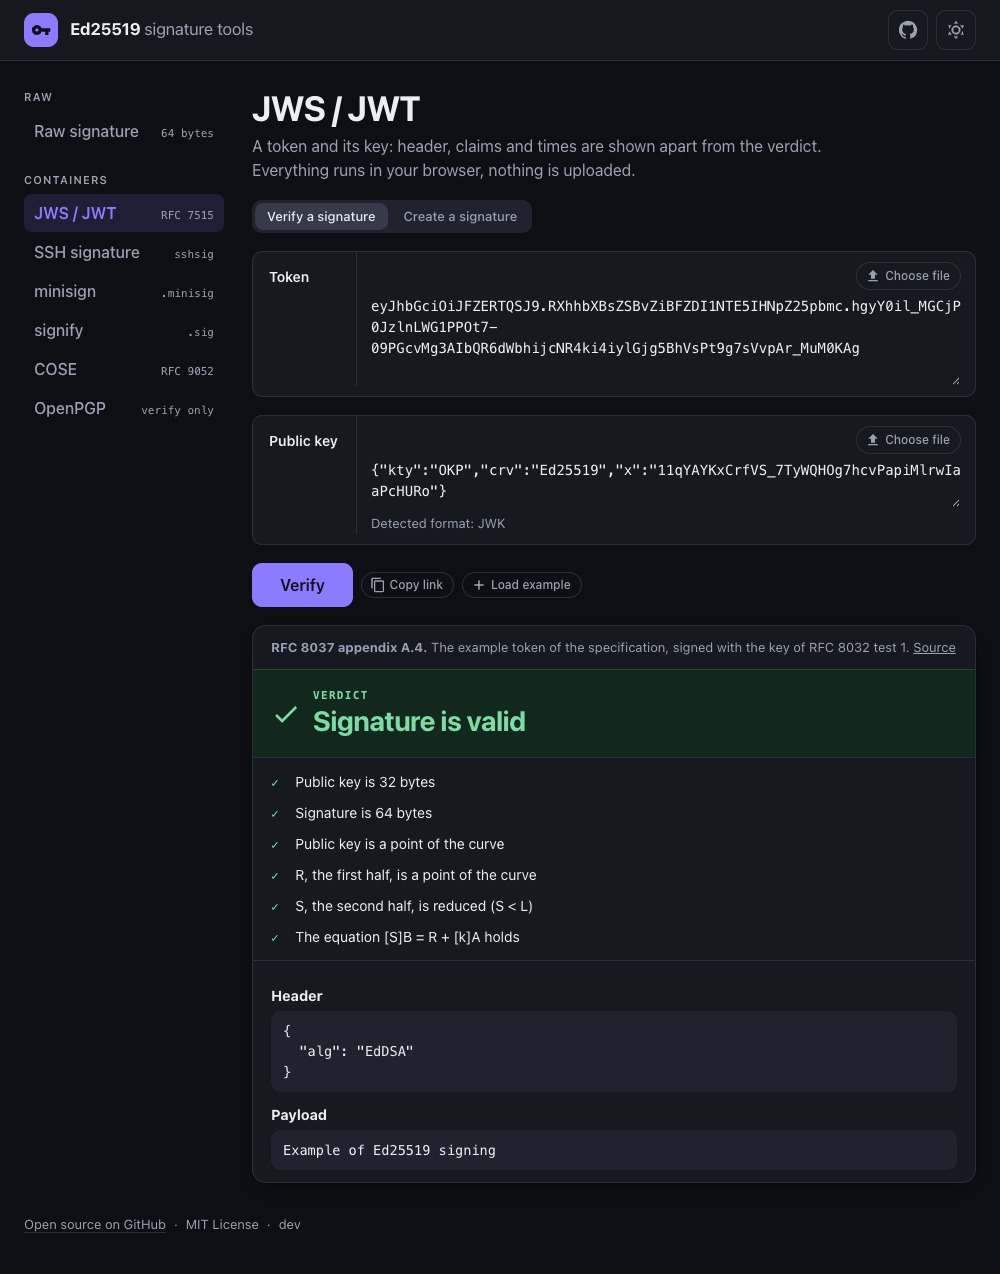
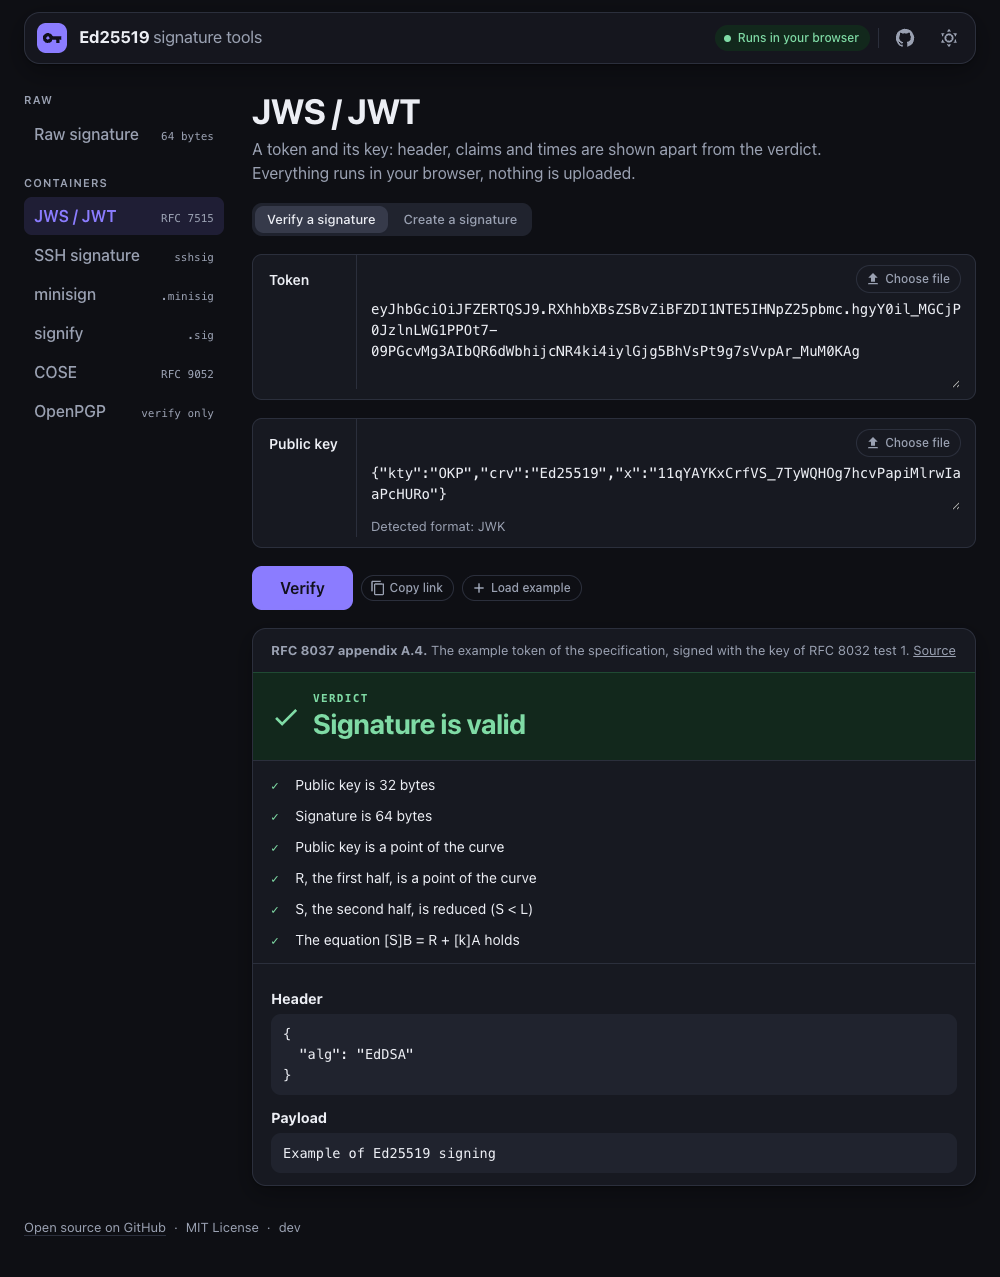
[feat]: a floating top bar with a "Runs in your browser" pill
The bar is a rounded, translucent card with a blur that floats over the page
and stays on top while it scrolls. The GitHub link and the theme toggle lose
their frame and sit after a divider. The screenshots show the new bar.

diff --git a/src/style.css b/src/style.css
@@ -66,23 +66,22 @@ button { font: inherit; color: inherit; cursor: pointer; }
 button:disabled { cursor: not-allowed; opacity: 0.5; }
 :focus-visible { outline: 2px solid var(--primary); outline-offset: 2px; }
 
-/* top bar */
-.topbar {
-  position: sticky;
-  top: 0;
-  z-index: 10;
-  background: color-mix(in srgb, var(--surface) 85%, transparent);
-  backdrop-filter: blur(10px);
-  border-bottom: 1px solid var(--border);
-}
+/* top bar: a rounded translucent bar that floats over the page and stays on top while it scrolls */
+.topbar { position: sticky; top: 0; z-index: 10; padding: 12px 24px 0; pointer-events: none; }
 .topbar-inner {
-  max-width: var(--page-width);
+  max-width: calc(var(--page-width) - 48px);
   margin: 0 auto;
-  padding: 0 24px;
-  height: 60px;
+  padding: 7px 8px 7px 12px;
   display: flex;
   align-items: center;
   justify-content: space-between;
+  gap: 12px;
+  pointer-events: auto;
+  background: color-mix(in srgb, var(--surface) 72%, transparent);
+  backdrop-filter: blur(14px);
+  border: 1px solid var(--border);
+  border-radius: 16px;
+  box-shadow: var(--shadow);
 }
 .brand { display: flex; align-items: center; gap: 12px; }
 .brand h1 { margin: 0; font-size: 1.05rem; font-weight: 700; letter-spacing: -0.01em; }
@@ -90,9 +89,9 @@ button:disabled { cursor: not-allowed; opacity: 0.5; }
 .logo {
   display: grid;
   place-items: center;
-  width: 34px;
-  height: 34px;
-  border-radius: 10px;
+  width: 30px;
+  height: 30px;
+  border-radius: 9px;
   background: var(--primary);
   color: var(--on-primary);
 }
@@ -100,17 +99,20 @@ button:disabled { cursor: not-allowed; opacity: 0.5; }
 a.icon, button.icon {
   display: grid;
   place-items: center;
-  width: 40px;
-  height: 40px;
-  border: 1px solid var(--border);
+  width: 36px;
+  height: 36px;
+  border: 0;
   border-radius: 10px;
-  background: var(--surface);
+  background: transparent;
   color: var(--muted);
   transition: color 0.15s, background 0.15s;
 }
 a.icon:hover, button.icon:hover { color: var(--text); background: var(--surface-2); }
 
-.topbar-actions { display: flex; gap: 8px; }
+.topbar-actions { display: flex; align-items: center; gap: 8px; }
+.local { display: inline-flex; align-items: center; gap: 7px; padding: 4px 11px 4px 9px; border-radius: 999px; background: var(--success-bg); color: var(--success-fg); font-size: 0.75rem; font-weight: 500; }
+.local::before { content: ''; width: 7px; height: 7px; border-radius: 50%; background: currentColor; }
+.divider { width: 1px; height: 20px; background: var(--border); }
 
 /* layout: the rail of formats, then the view that is open */
 .app {
@@ -125,7 +127,7 @@ a.icon:hover, button.icon:hover { color: var(--text); background: var(--surface-
 .bench-head h2 { margin: 0; font-size: clamp(1.6rem, 3.5vw, 2.2rem); line-height: 1.1; font-weight: 700; letter-spacing: -0.03em; text-wrap: balance; }
 .lead { margin: 6px 0 0; color: var(--muted); max-width: 60ch; }
 
-.rail { display: flex; flex-direction: column; gap: 22px; min-width: 0; align-self: start; position: sticky; top: 84px; }
+.rail { display: flex; flex-direction: column; gap: 22px; min-width: 0; align-self: start; position: sticky; top: 88px; }
 .rail-group h2 { margin: 0 0 6px; font-size: 0.6875rem; letter-spacing: 0.1em; text-transform: uppercase; color: var(--muted); font-weight: 600; }
 .rail [role='tablist'] { display: flex; flex-direction: column; gap: 1px; }
 .rail [role='tab'] {
@@ -326,6 +328,7 @@ button.primary:active { transform: translateY(1px); }
 }
 
 @media (max-width: 760px) {
+  .local, .divider { display: none; }
   .app { grid-template-columns: minmax(0, 1fr); gap: 16px; }
   .rail { position: static; flex-direction: row; gap: 4px; overflow-x: auto; }
   .rail-group h2, .rail [role='tab'] small { display: none; }
@@ -337,7 +340,7 @@ button.primary:active { transform: translateY(1px); }
   .field > :not(.field-head) { grid-column: 1; }
 }
 @media (max-width: 520px) {
-  .topbar-inner, .app, .footer { padding-left: 16px; padding-right: 16px; }
+  .topbar, .app, .footer { padding-left: 16px; padding-right: 16px; }
   .brand h1 span { display: none; }
 }
 

diff --git a/src/App.tsx b/src/App.tsx
@@ -138,6 +138,8 @@ export default function App() {
                         </h1>
                     </div>
                     <div class="topbar-actions">
+                        <span class="local">Runs in your browser</span>
+                        <span class="divider" aria-hidden="true" />
                         <a
                             class="icon"
                             href={REPO_URL}
